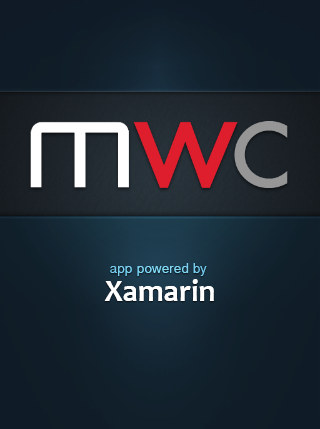
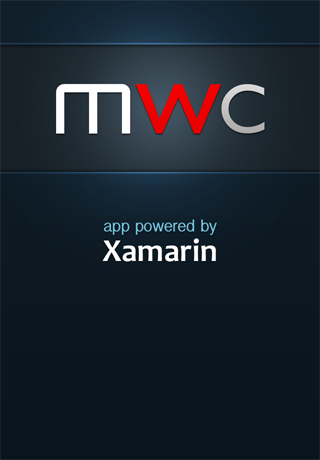
iOS: new default/home branding image

Changed region(s): [[0.0938, 0.0303, 0.9062, 0.8182]]

diff --git a/MWC/MWC.iOS/Screens/iPhone/Home/HomeScreen.cs b/MWC/MWC.iOS/Screens/iPhone/Home/HomeScreen.cs
@@ -68,7 +68,7 @@ namespace MWC.iOS.Screens.iPhone.Home {
 			{
 				if (AppDelegate.IsPhone)
 					loadingOverlay = new MWC.iOS.UI.Controls.LoadingOverlay (SessionTable.Frame);
-				else {	// IsPad
+				else {	// IsPad (rotates!)
 					var overlayFrame = View.Frame;
 					overlayFrame.Y = 330;
 					overlayFrame.Height = 768 - 330;
